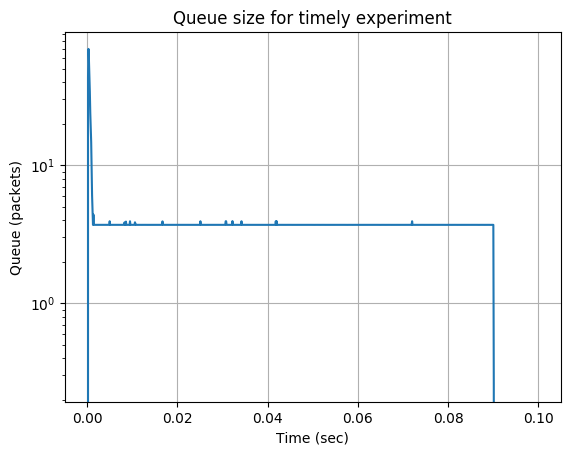
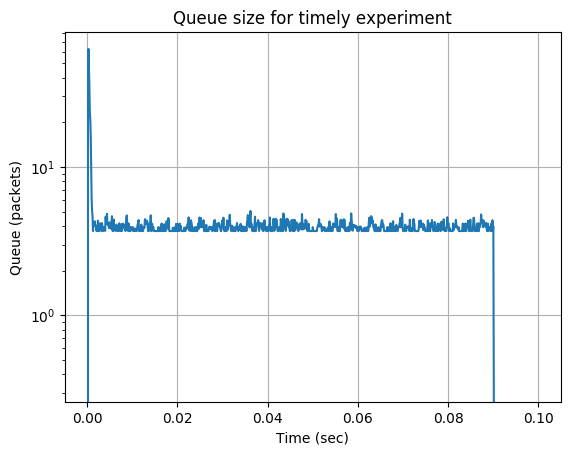
TIMELY style now an option

Changed region(s): [[0.1185, 0.2154, 0.9774, 0.5231], [0.0592, 0.6462, 0.1185, 0.7077], [0.0592, 0.3385, 0.0889, 0.4]]

diff --git a/lib/reproduction_sim.py b/lib/reproduction_sim.py
@@ -38,9 +38,11 @@ def main():
         os.system('ns ./lib/reproduction.tcl {0} {1} {2} {3}'.format(congestion_alg, out_dir, \
                                                                 num_clients, num_conn_per_client))
         print("DCTCP Simulation Done!")
-        dctcp_cdf = benchmark_tools.plot_rtt(congestion_alg, out_dir, log_plot=False, nplot=4)
+        dctcp_cdf = benchmark_tools.plot_rtt(congestion_alg, out_dir, log_plot=False, nplot=4,
+                                             timely_style=True)
         dctcp_thp = benchmark_tools.plot_throughput(congestion_alg, num_clients, out_dir, \
-                                                conn_per_client=num_conn_per_client, nplot=4)
+                                                    conn_per_client=num_conn_per_client, nplot=4,
+                                                    timely_style=True)
         benchmark_tools.plot_queue(congestion_alg, out_dir)
 
     if args.vegas:
@@ -48,9 +50,11 @@ def main():
         os.system('ns ./lib/reproduction.tcl {0} {1} {2} {3}'.format(congestion_alg, out_dir, \
                                                 num_clients, num_conn_per_client))
         print("Vegas Simulation Done!")
-        vegas_cdf = benchmark_tools.plot_rtt(congestion_alg, out_dir, log_plot=False, nplot=4)
+        vegas_cdf = benchmark_tools.plot_rtt(congestion_alg, out_dir, log_plot=False, nplot=4,
+                                             timely_style=True)
         vegas_thp = benchmark_tools.plot_throughput(congestion_alg, num_clients, out_dir, \
-                                                conn_per_client=num_conn_per_client, nplot=4)
+                                                    conn_per_client=num_conn_per_client, nplot=4,
+                                                    timely_style=True)
         benchmark_tools.plot_queue(congestion_alg, out_dir)
 
     if args.timely:
@@ -58,17 +62,21 @@ def main():
         os.system('ns ./lib/reproduction.tcl {0} {1} {2} {3}'.format(congestion_alg, out_dir, \
                                                 num_clients, num_conn_per_client))
         print("Timely Simulation Done!")
-        timely_cdf = benchmark_tools.plot_rtt(congestion_alg, out_dir, log_plot=False, nplot=4)
+        timely_cdf = benchmark_tools.plot_rtt(congestion_alg, out_dir, log_plot=False, nplot=4,
+                                              timely_style=True)
         timely_thp = benchmark_tools.plot_throughput(congestion_alg, num_clients, out_dir, \
-                                        conn_per_client=num_conn_per_client, nplot=4)
+                                                     conn_per_client=num_conn_per_client, nplot=4,
+                                                     timely_style=True)
         benchmark_tools.plot_rate(congestion_alg, num_clients, out_dir, \
-                            conn_per_client=num_conn_per_client, nplot=4)
+                                  conn_per_client=num_conn_per_client, nplot=4,
+                                  timely_style=True)
         benchmark_tools.plot_queue(congestion_alg, out_dir)
 
 
         benchmark_tools.plot_allRTTcdf(out_dir, dctcp=dctcp_cdf, vegas=vegas_cdf, timely=timely_cdf, \
-                                    log_plot=False)
-        benchmark_tools.plot_allTotalThp(out_dir, dctcp=dctcp_thp, vegas=vegas_thp, timely=timely_thp)
+                                       log_plot=False, timely_style=True)
+        benchmark_tools.plot_allTotalThp(out_dir, dctcp=dctcp_thp, vegas=vegas_thp, timely=timely_thp,
+                                         timely_style=True)
 
 if __name__ == "__main__":
     main()

diff --git a/dctcp-ns2/bin/benchmark_tools.py b/dctcp-ns2/bin/benchmark_tools.py
@@ -10,7 +10,8 @@ from collections import defaultdict
 from random import sample, seed
 
 
-def plot_rtt(algo_name, out_dir, log_plot=True, nplot=1, report_only=False):
+def plot_rtt(algo_name, out_dir, log_plot=True, nplot=1, report_only=False,
+             timely_style=False):
 	"""
 	Plots connection RTTs from nplot sampled connections.
 
@@ -83,7 +84,7 @@ def plot_allRTTcdf(out_dir, log_plot=True, dctcp=None, vegas=None, timely=None,
                    hopeSum=None, hopeMax=None, \
                    hopeMaxq=None, hopeMaxqd=None, hopeMaxe=None, hopeMaxed=None, \
                    hopeSumq=None, hopeSumqd=None, hopeSume=None, hopeSumed=None, \
-                   hopeSqu=None, hopeSquq=None):
+                   hopeSqu=None, hopeSquq=None, timely_style=False):
     """
     Plot the given CDFs on the same figure for easier comparison
     """    
@@ -132,7 +133,8 @@ def plot_allRTTcdf(out_dir, log_plot=True, dctcp=None, vegas=None, timely=None,
     plt.close()
 
 
-def plot_rate(algo_name, num_clients, out_dir, conn_per_client=1, nplot=1):
+def plot_rate(algo_name, num_clients, out_dir, conn_per_client=1, nplot=1,
+              timely_style=False):
     """
     Plots a sample of the output rates for the given connections to reproduce
     Figure 13 of the TIMELY paper.
@@ -183,7 +185,8 @@ def plot_rate(algo_name, num_clients, out_dir, conn_per_client=1, nplot=1):
     print("Saved plot: %s" % out_file)
     plt.close()
 
-def plot_signal(signal_name, algo_name, num_clients, out_dir, conn_per_client=1, nplot=1):
+def plot_signal(signal_name, algo_name, num_clients, out_dir, conn_per_client=1,
+                nplot=1):
     """
     Plots a sample of the Hope signal for the given connections. 
 
@@ -233,7 +236,8 @@ def plot_signal(signal_name, algo_name, num_clients, out_dir, conn_per_client=1,
     print("Saved plot: %s" % out_file)
     plt.close()
 
-def plot_throughput(algo_name, num_clients, out_dir, conn_per_client=1, report_only=False, nplot=0):
+def plot_throughput(algo_name, num_clients, out_dir, conn_per_client=1,
+                    report_only=False, nplot=0, timely_style=False):
 	"""
 	Plots the throughput for the first num_clients clients, assuming
 	each client serves conn_per_client connections.
@@ -328,7 +332,7 @@ def plot_throughput(algo_name, num_clients, out_dir, conn_per_client=1, report_o
 def plot_allTotalThp(out_dir, dctcp=None, vegas=None, timely=None, hopeSum=None, hopeMax=None, \
                         hopeMaxq=None, hopeMaxqd=None, hopeMaxe=None, hopeMaxed=None, \
                         hopeSumq=None, hopeSumqd=None, hopeSume=None, hopeSumed=None, \
-                        hopeSqu=None, hopeSquq=None):
+                        hopeSqu=None, hopeSquq=None, timely_style=False):
     """
     Plot the given throughputs in the same figure for easier comparison
     """
